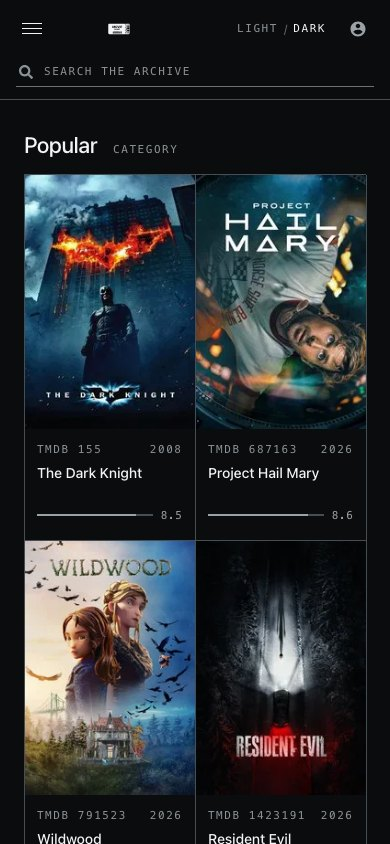
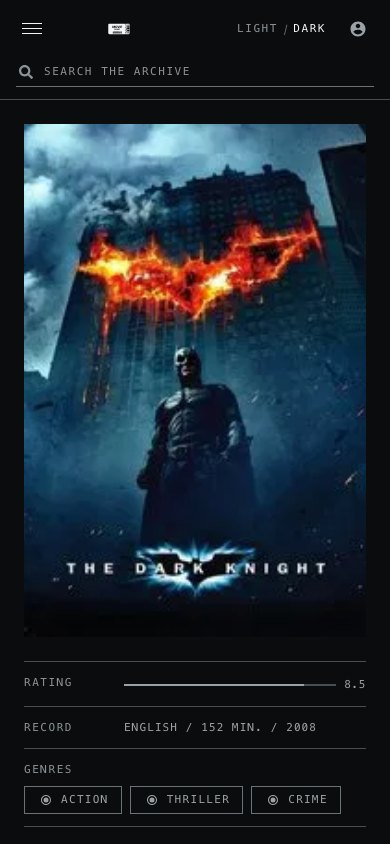
fix(ui): give the plate column its record, and hold the strip's baseline
The detail card's plate column ended far short of the written column, so
the page carried a tall void beside the synopsis. The archive's own answer
is that a card writes its facts under the plate: rating, record and genres
move there as a ruled accession block, and the two columns now end level.

Rhythm
- The accession code wrapped to two lines wherever a frame got narrow,
  pushing that frame's title and rating bar down by a line and breaking
  the baseline the strip is ruled on. It holds one line now and the id
  ellipsises before the year does.
- The track floor rose from 8.5rem to 9.5rem; at 1024 the old floor gave
  five tracks of 146px, which is where the wrapping started.

Widths
- 'Search the archive' was clipped between 48rem and about 90rem.
- The detail card split into two columns at 48rem while both halves were
  still cramped; it splits at 56rem. In the band below that the plate and
  its record sit side by side rather than letting a full-width poster push
  the record off the fold.

The plate block's layout lives in the page stylesheets, not in detail-grid:
ng-content keeps projected markup under the parent's encapsulation, so a
selector written in the child cannot reach it.

diff --git a/src/app/pages/movie-detail-page/movie-detail-page.component.html b/src/app/pages/movie-detail-page/movie-detail-page.component.html
@@ -15,32 +15,44 @@
           [title]="movie.title"
           data-uf="hero-img"
           />
+
+        <!-- The accession block: what the archive records about this frame.
+             It lives under the plate, which is where a card carries it, and
+             it is what the column used to leave empty. -->
+        <dl class="facts">
+          <div class="facts--row">
+            <dt class="code">Rating</dt>
+            <dd><ui-rating [rating]="movie.vote_average" /></dd>
+          </div>
+          <div class="facts--row">
+            <dt class="code">Record</dt>
+            <dd class="figure">{{ movie.languages_runtime_release }}</dd>
+          </div>
+          @if (movie.genres?.length) {
+            <div class="facts--row facts--row-wide">
+              <dt class="code">Genres</dt>
+              <dd>
+                <div class="movie-detail--genres">
+                  @for (genre of movie.genres; track genre.name) {
+                    <a
+                      class="movie-detail--genres-link"
+                      [routerLink]="['/list/genre/', genre.id]"
+                    >
+                      <fast-svg name="genre" size="12" />
+                      {{ genre.name }}
+                    </a>
+                  }
+                </div>
+              </dd>
+            </div>
+          }
+        </dl>
       </div>
       <div detailGridDescription>
         <header>
           <h1 data-uf="header-main">{{ movie.title }}</h1>
           <p class="header--label code" data-uf="header-sub">{{ movie.tagline }}</p>
         </header>
-        <section class="movie-detail--basic-infos">
-          <ui-rating [rating]="movie.vote_average" />
-          <div class="movie-detail--languages-runtime-release">
-            <strong>{{ movie.languages_runtime_release }}</strong>
-          </div>
-        </section>
-        <section>
-          <h3>The Genres</h3>
-          <div class="movie-detail--genres">
-            @for (genre of movie.genres; track genre.name) {
-              <a
-                class="movie-detail--genres-link"
-                [routerLink]="['/list/genre/', genre.id]"
-                >
-                <fast-svg name="genre" size="12" />
-                {{ genre.name }}
-              </a>
-            }
-          </div>
-        </section>
         <section>
           <h3>The Synopsis</h3>
           <p>{{ movie.overview || 'There is no synopsis available...' }}</p>

diff --git a/src/app/pages/movie-detail-page/movie-detail-page.component.scss b/src/app/pages/movie-detail-page/movie-detail-page.component.scss
@@ -2,33 +2,54 @@
   display: block;
 }
 
-/* The tagline under the title is the card's second line, set like every
-   other accession label on the sheet. */
-.movie-detail--basic-infos {
-  display: flex;
-  flex-wrap: wrap;
-  align-items: center;
-  gap: var(--s-3) var(--s-5);
-  border-top: none;
-  padding-top: var(--s-3);
+/* The accession block under the plate: label left, value right, one ruled
+   row each, the way the card itself is written. */
+.facts {
+  margin: var(--s-5) 0 0;
+  border-top: var(--hair) solid var(--rule);
 }
 
-.movie-detail--basic-infos ui-rating {
-  flex: 0 0 auto;
-  width: 9rem;
+/* Beside the plate rather than under it, the record needs no gap above. */
+@media (min-width: 30rem) and (max-width: 55.999rem) {
+  .facts {
+    margin-top: 0;
+    border-top: none;
+  }
+
+  .facts--row:first-child {
+    padding-top: 0;
+  }
 }
 
-.movie-detail--languages-runtime-release {
-  font-family: var(--font-code);
-  font-variant-numeric: tabular-nums;
-  font-size: var(--t-code);
-  letter-spacing: 0.1em;
-  text-transform: uppercase;
+.facts--row {
+  display: grid;
+  grid-template-columns: 5.5rem 1fr;
+  align-items: baseline;
+  gap: var(--s-3);
+  padding: var(--s-3) 0;
+  border-bottom: var(--hair) solid var(--rule);
+}
+
+.facts--row-wide {
+  grid-template-columns: 1fr;
+  gap: var(--s-2);
+}
+
+.facts dt {
+  margin: 0;
+}
+
+.facts dd {
+  margin: 0;
+  min-width: 0;
+  font-size: var(--t-fine);
   color: var(--ink-dim);
 }
 
-.movie-detail--languages-runtime-release strong {
-  font-weight: 400;
+.facts .figure {
+  font-size: var(--t-code);
+  letter-spacing: 0.1em;
+  text-transform: uppercase;
 }
 
 .movie-detail--genres {
@@ -174,4 +195,16 @@
 
 .recommendations > header {
   padding-top: var(--s-6);
+}
+
+/* Between a phone and the two-column card the plate would otherwise run the
+   full width and become a billboard with its record pushed off the fold. In
+   that band the plate and its record sit side by side. */
+@media (min-width: 30rem) and (max-width: 55.999rem) {
+  [detailGridMedia] {
+    display: grid;
+    grid-template-columns: minmax(0, 17rem) 1fr;
+    align-items: start;
+    gap: var(--s-5);
+  }
 }

diff --git a/src/app/ui/component/detail-grid/detail-grid.component.scss b/src/app/ui/component/detail-grid/detail-grid.component.scss
@@ -20,11 +20,15 @@
   border-bottom: var(--hair) solid var(--rule);
 }
 
+/* The plate block's own layout between phone and card widths lives in the
+   page stylesheets: ng-content keeps projected markup under the parent
+   component's encapsulation, so a selector written here cannot reach it. */
+
 .grid--description {
   padding: var(--s-5) 0;
 }
 
-@media (min-width: 48rem) {
+@media (min-width: 56rem) {
   :host {
     /* The plate is held to a readable size; the card gets the rest. */
     grid-template-columns: minmax(14rem, 22rem) 1fr;

diff --git a/src/app/ui/pattern/movie-list/movie-list.component.scss b/src/app/ui/pattern/movie-list/movie-list.component.scss
@@ -150,6 +150,19 @@
   max-width: none;
 }
 
+/* One line, always. Wrapped to two it pushed the title and the rating bar
+   down by a line, and the row lost the baseline the strip is ruled on. The
+   accession number gives way first; the year is short and always shows. */
+.frame--code > span {
+  white-space: nowrap;
+}
+
+.frame--code > span:first-child {
+  min-width: 0;
+  overflow: hidden;
+  text-overflow: ellipsis;
+}
+
 .frame:hover .frame--code,
 .frame:focus-visible .frame--code {
   color: var(--mark);

diff --git a/src/app/pages/person-detail-page/person-detail-page.component.scss b/src/app/pages/person-detail-page/person-detail-page.component.scss
@@ -30,3 +30,15 @@
 .sort .select-wrapper {
   width: clamp(12rem, 22vw, 18rem);
 }
+
+/* Between a phone and the two-column card the plate would otherwise run the
+   full width and become a billboard with its record pushed off the fold. In
+   that band the plate and its record sit side by side. */
+@media (min-width: 30rem) and (max-width: 55.999rem) {
+  [detailGridMedia] {
+    display: grid;
+    grid-template-columns: minmax(0, 17rem) 1fr;
+    align-items: start;
+    gap: var(--s-5);
+  }
+}

diff --git a/src/app/ui/token/_tokens.scss b/src/app/ui/token/_tokens.scss
@@ -91,7 +91,7 @@
      switch costs nothing but a redeclaration. */
   --strip: 100px;
   --rail: 232px;
-  --frame-min: clamp(8.5rem, 13vw, 11.5rem);
+  --frame-min: clamp(9.5rem, 13vw, 11.5rem);
   --measure: 68ch;
 }
 

diff --git a/src/app/ui/component/search-bar/search-bar.component.scss b/src/app/ui/component/search-bar/search-bar.component.scss
@@ -69,6 +69,7 @@
 
   .input {
     flex: 0 1 auto;
-    width: clamp(7rem, 18vw, 15rem);
+    /* 18vw left "Search the archive" clipped at 768; this fits it. */
+    width: clamp(10rem, 26vw, 15rem);
   }
 }
